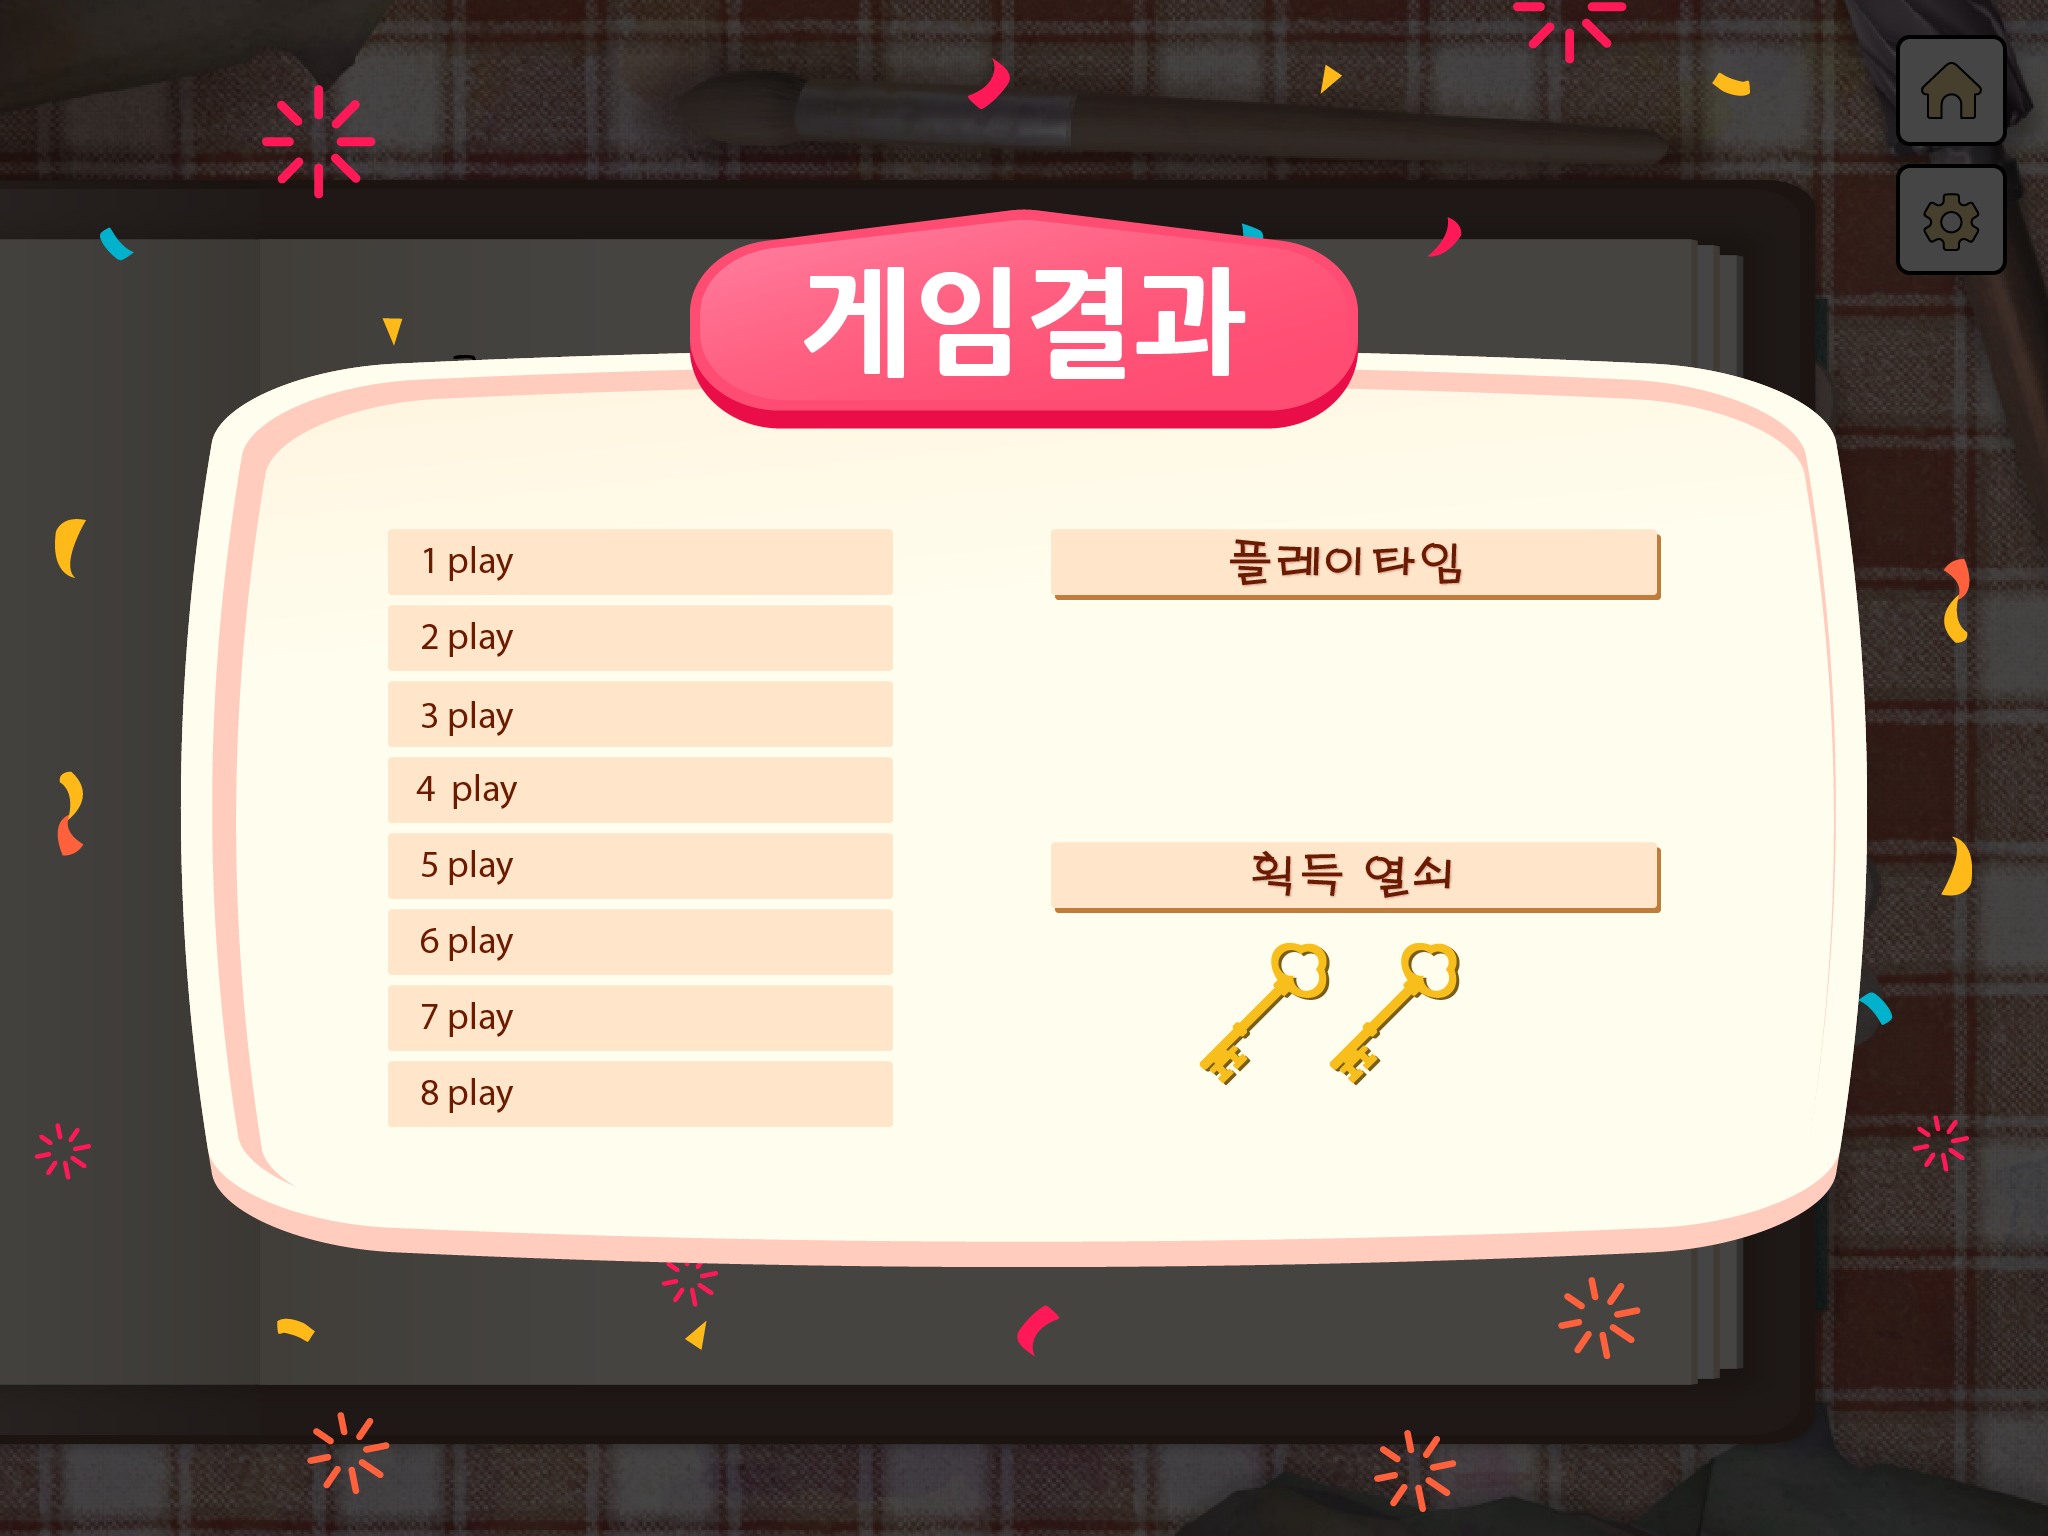
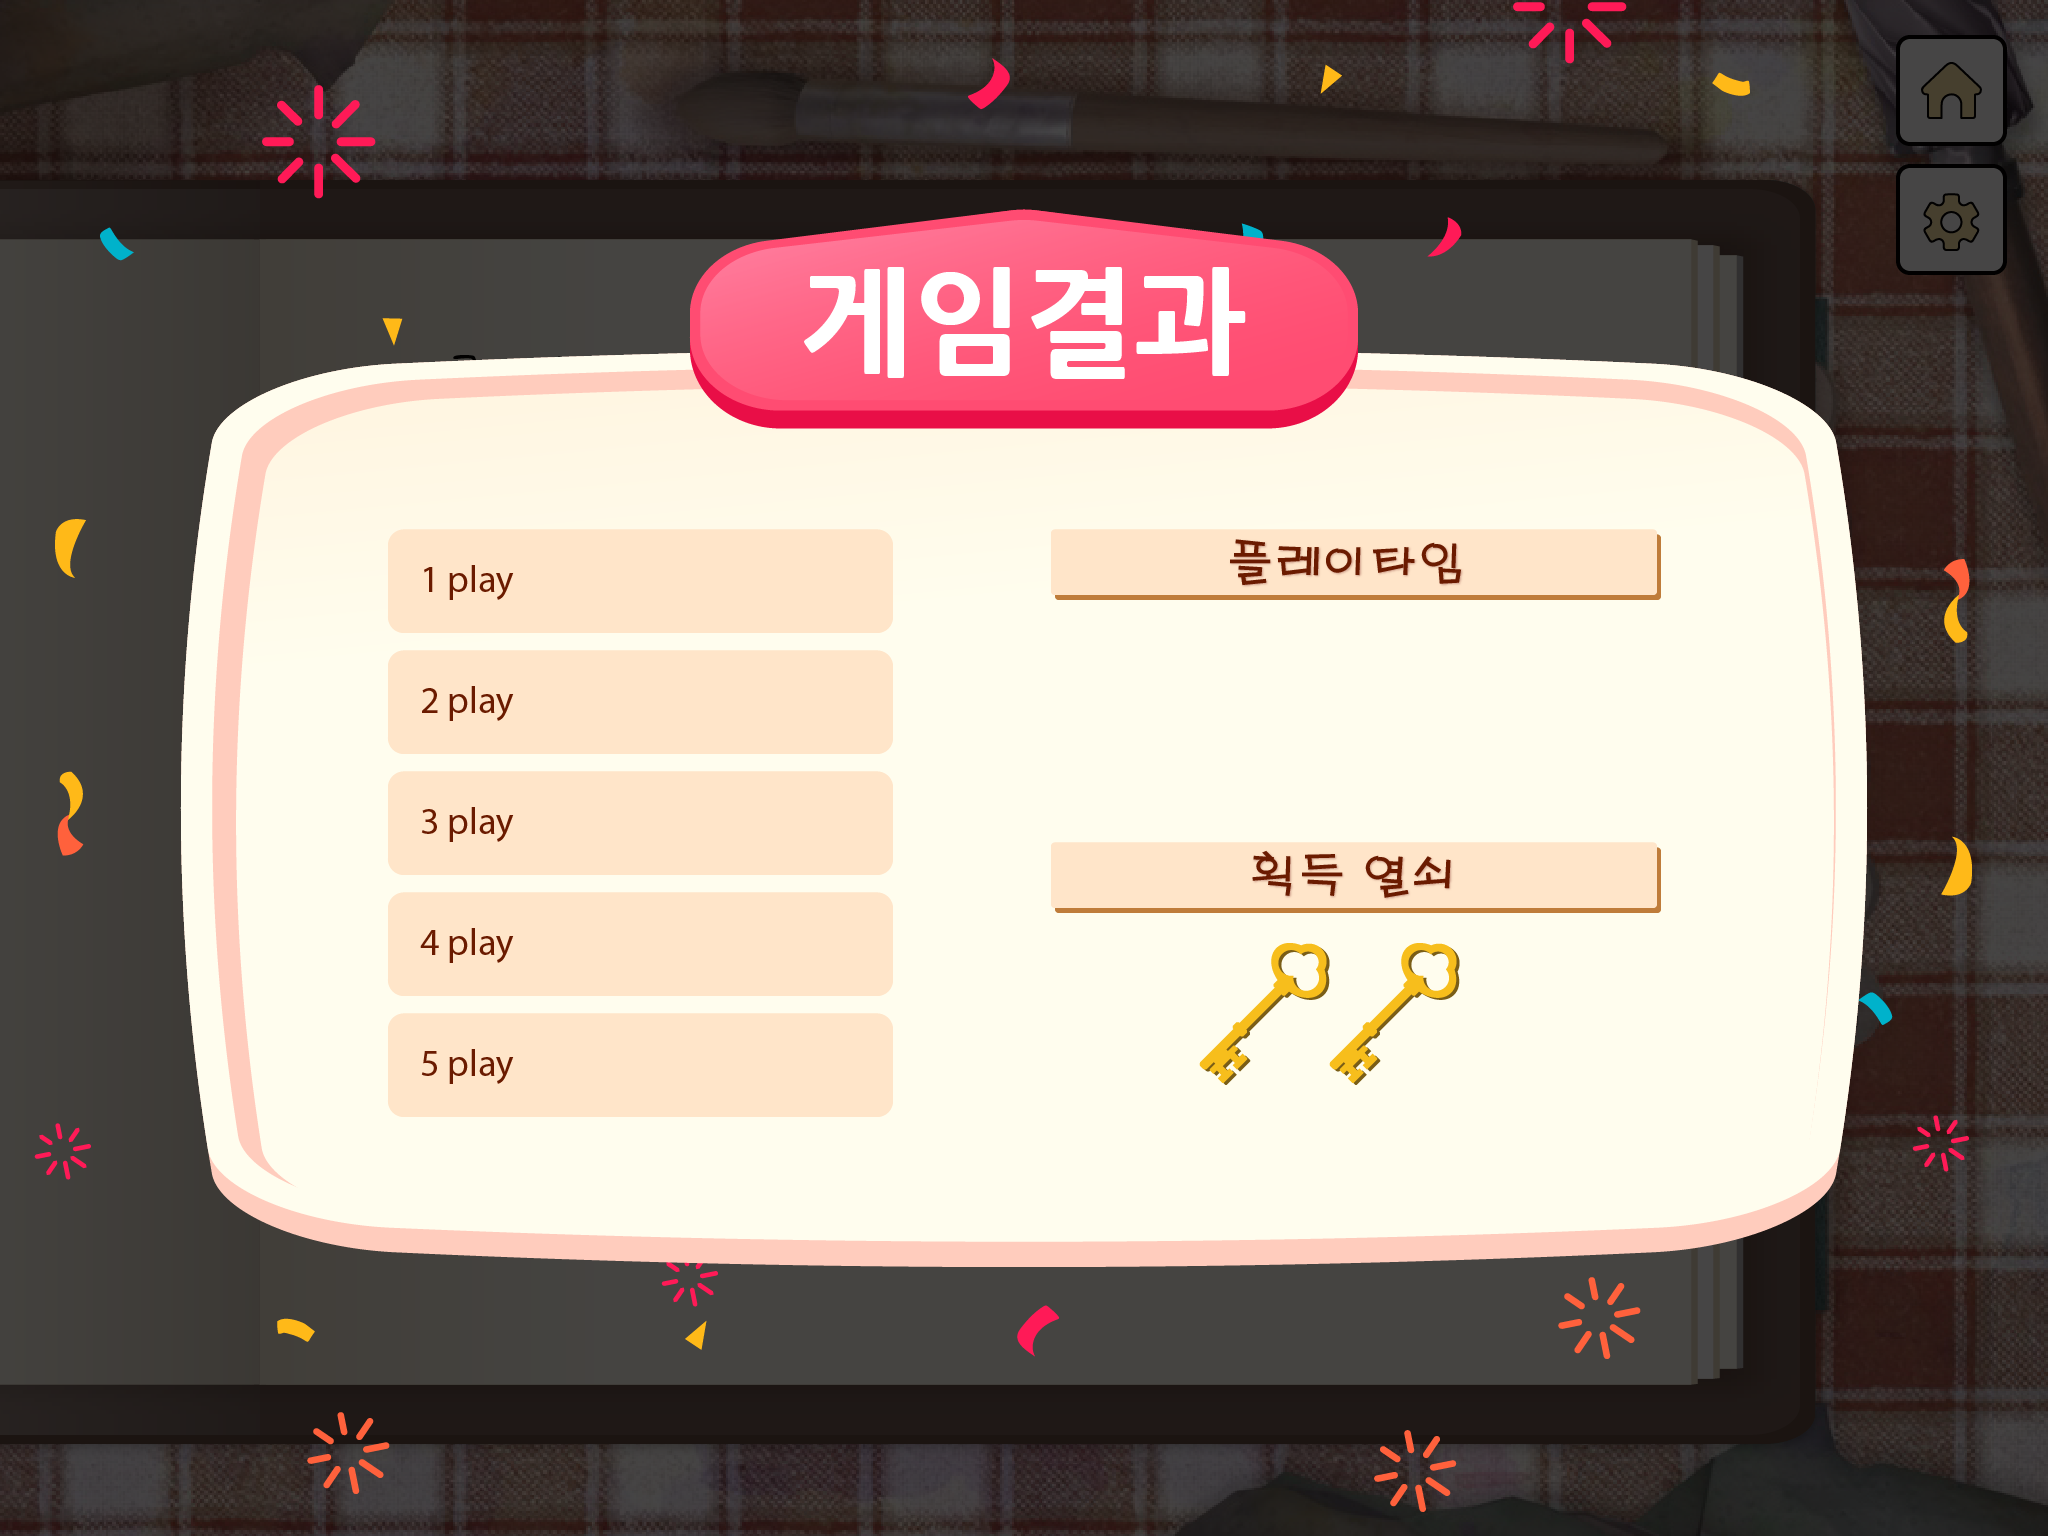
게임 개별 시간 추가

Changed region(s): [[0.1875, 0.3438, 0.4375, 0.75]]

diff --git a/js/pay.js b/js/pay.js
@@ -3,9 +3,8 @@ const ctx = canvas.getContext("2d");
 initCanvas(canvas);
 const payButton = document.querySelector(".pay_button");
 const button = document.querySelector(".after_button");
-const again = document.querySelector('.again');
 const nowTime = new Date().getTime();
-const timeOut = localStorage.getItem("timeout");
+const timeOut = JSON.parse(localStorage.getItem("timeout"));
 let cnt = 0;
 
 canvas.addEventListener("touchmove", function(e) {
@@ -19,7 +18,8 @@ canvas.addEventListener("touchend", function() {
             const newTime = new Date().getTime();
             const diffSeconds = (newTime - nowTime) / (1000);
 
-            localStorage.setItem("timeout", parseInt(timeOut)+diffSeconds);
+            timeOut.game4 = diffSeconds;
+            localStorage.setItem("timeout", JSON.stringify(timeOut));
             location.href = 'invite.html';
         }
         cnt = 0;
@@ -27,8 +27,4 @@ canvas.addEventListener("touchend", function() {
 })
 payButton.addEventListener("click", function() {
     this.parentElement.classList.remove("popup_second");
-})
-again.addEventListener('click', function() {
-    ctx.beginPath();
-    ctx.clearRect(0, 0, canvas.width, canvas.height);
 })

diff --git a/js/invite.js b/js/invite.js
@@ -6,12 +6,13 @@ const items = [false, false, false];
 const checkBoxs = document.querySelectorAll(".check_box");
 const button = document.querySelector(".after_button");
 const nowTime = new Date().getTime();
-const timeOut = localStorage.getItem("timeout");
+const timeOut = JSON.parse(localStorage.getItem("timeout"));
 
 initCanvas(canvas);
 setTimeout(() => invite.style.backgroundImage = "url(images/background/15_after_v1.png)", 3500)
 hintBtn.addEventListener("click", function() {
     hint.classList.add("hint-active");
+    setTimeout(() => hint.classList.remove('hint-active'), 4000);
 })
 
 canvas.addEventListener("touchmove", function(e) {
@@ -26,7 +27,8 @@ canvas.addEventListener("touchend", function() {
             const newTime = new Date().getTime();
             const diffSeconds = (newTime - nowTime) / (1000);
 
-            localStorage.setItem("timeout", parseInt(timeOut)+diffSeconds);
+            timeOut.game5 = diffSeconds;
+            localStorage.setItem("timeout", JSON.stringify(timeOut));
             location.href = 'reward.html';
         }
     }

diff --git a/js/home.js b/js/home.js
@@ -6,7 +6,7 @@ const button = document.querySelector(".after_button");
 const popupSecond = document.querySelector(".popup_second")
 const checklist = document.querySelector(".checklist");
 const nowTime = new Date().getTime();
-const timeOut = localStorage.getItem("timeout");
+const timeOut = JSON.parse(localStorage.getItem("timeout"));
 
 canvas.addEventListener("touchmove", function(e) {
     checkBoxs.forEach((box, index) => {
@@ -20,8 +20,9 @@ canvas.addEventListener("touchend", function() {
         button.onclick = () => {
             const newTime = new Date().getTime();
             const diffSeconds = (newTime - nowTime) / (1000);
-
-            localStorage.setItem("timeout", parseInt(timeOut)+diffSeconds);
+            
+            timeOut.game1 = diffSeconds;
+            localStorage.setItem("timeout", JSON.stringify(timeOut));
             location.href = 'maze.html';
         }
     }

diff --git a/js/maze.js b/js/maze.js
@@ -4,7 +4,7 @@ const afterButton = document.querySelector(".after_button");
 const popupSecond = document.querySelector(".popup_second")
 const checklist = document.querySelector(".checklist");
 const nowTime = new Date().getTime();
-const timeOut = localStorage.getItem("timeout");
+const timeOut = JSON.parse(localStorage.getItem("timeout"));
 let items = [false, false];
 
 initCanvas(canvas);
@@ -19,8 +19,9 @@ canvas.addEventListener("touchend", function(e) {
         afterButton.onclick = () => {
             const newTime = new Date().getTime();
             const diffSeconds = (newTime - nowTime) / (1000);
-
-            localStorage.setItem("timeout", parseInt(timeOut)+diffSeconds);
+            
+            timeOut.game2 = diffSeconds;
+            localStorage.setItem("timeout", JSON.stringify(timeOut));
             location.href = 'mart.html';
         }
     }

diff --git a/js/mart.js b/js/mart.js
@@ -6,7 +6,7 @@ const button = document.querySelector(".after_button");
 const popupSecond = document.querySelector(".popup_second");
 const checklist = document.querySelector(".checklist");
 const nowTime = new Date().getTime();
-const timeOut = localStorage.getItem("timeout");
+const timeOut = JSON.parse(localStorage.getItem("timeout"));
 
 canvas.addEventListener("touchmove", function(e) {
     checkBoxs.forEach((box, index) => {
@@ -21,7 +21,8 @@ canvas.addEventListener("touchend", function() {
             const newTime = new Date().getTime();
             const diffSeconds = (newTime - nowTime) / (1000);
 
-            localStorage.setItem("timeout", parseInt(timeOut)+diffSeconds);
+            timeOut.game3 = diffSeconds;
+            localStorage.setItem("timeout", JSON.stringify(timeOut));
             location.href = 'pay.html';
         }
     }

diff --git a/js/reward.js b/js/reward.js
@@ -1,9 +1,16 @@
 const write = document.querySelector(".write");
 const conti = document.querySelector(".continue");
 const timeoutDom = document.querySelector(".timeout");
-const timeout = parseInt(localStorage.getItem("timeout"));
-const minute = Math.floor(timeout/60);
-const seconds = timeout%60;
+const timeout = JSON.parse(localStorage.getItem("timeout"));
+const timeoutItems = document.querySelectorAll('.timeout-item');
+const time = timeout.game1 + timeout.game2 + timeout.game3 + timeout.game4 + timeout.game5;
+const minute = Math.floor(time/60);
+const seconds = Math.floor(time%60);
+
+Object.values(timeout).forEach((value, index) => {
+    timeoutItems[index].innerText = `${Math.floor(value)}초`;
+})
+
 timeoutDom.innerText = `${minute}분 ${seconds}초`;
 write.addEventListener("click", function() {
     location.href = 'diary.html';

diff --git a/js/readDiary.js b/js/readDiary.js
@@ -1,12 +1,9 @@
 const next = document.querySelector(".next");
 const text = document.querySelector(".text");
 const nickName = localStorage.getItem("nickName");
-const nowTime = new Date().getTime();
 
 next.onclick = () => {
-    const newTime = new Date().getTime();
-    const diffSeconds = (newTime - nowTime) / (1000);
-    localStorage.setItem("timeout", diffSeconds);
+    localStorage.setItem('timeout', '{}');
     location.href = "home.html";
 }
 text.innerHTML = `${nickName}님이 작성하신<br>일기를 읽어주세요!!`;

diff --git a/reward.html b/reward.html
@@ -9,6 +9,13 @@
     <title>Dear My Diary</title>
 </head>
 <body>
+    <div class="timeout-list">
+        <div class="timeout-item"></div>
+        <div class="timeout-item"></div>
+        <div class="timeout-item"></div>
+        <div class="timeout-item"></div>
+        <div class="timeout-item"></div>
+    </div>
     <div class="timeout"></div>
     <div class="reward background">
         <div class="buttons">

diff --git a/pay.html b/pay.html
@@ -30,7 +30,6 @@
     <div class="after_button">
         <img src="images/button/after_bottom.png" alt="">
     </div>
-    <img src="images/diary/b_again.png" alt="" class="again">
     <script src="./js/drawing.js"></script>
     <script src='./js/pay.js'></script>
 </body>

diff --git a/css/reward.css b/css/reward.css
@@ -23,3 +23,16 @@
     width: 45%;
     height: 100%;
 }
+.timeout-list {
+    width: 20%;
+    position: absolute;
+    z-index: 3;
+    left: 22%;
+    top: 34%;
+    text-align: right;
+}
+.timeout-item {
+    padding: 6.7%;
+    font-size: 1.5rem;
+    color: #6b1b00;
+}

diff --git a/css/pay.css b/css/pay.css
@@ -36,5 +36,5 @@ img.again {
     position: absolute;
     z-index: 1;
     left: 82.5%;
-    top: 15%;
+    top: 18%;
 }
